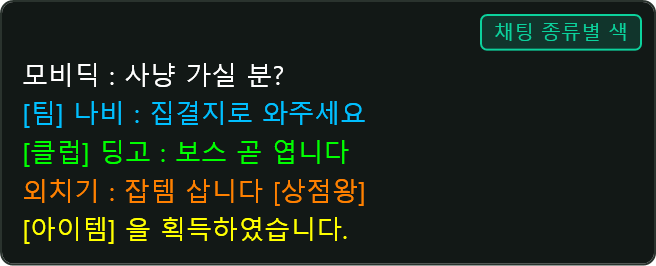
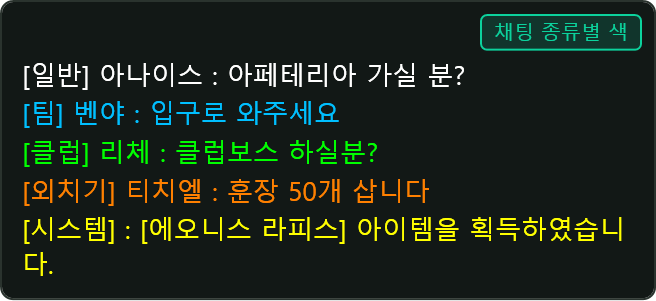
docs: 기본 채팅 필터 예시를 실제 게임 캐릭터·상황 문구로 교체

diff --git a/Services/Diagnostics/HelpShotRenderer.cs b/Services/Diagnostics/HelpShotRenderer.cs
@@ -1,4 +1,4 @@
-using System;
+using System;
 using System.IO;
 using System.Windows;
 using System.Windows.Controls;
@@ -44,11 +44,11 @@ namespace TWChatOverlay.Services
 
             // ── 기본 채팅 필터: 종류별 색 한눈에 ──
             Save(outDir, "chat_filter.png", Panel("채팅 종류별 색",
-                Line(NormalCol, ("모비딕 : 사냥 가실 분?", NormalCol)),
-                Line(TeamCol, ("[팀] 나비 : 집결지로 와주세요", TeamCol)),
-                Line(ClubCol, ("[클럽] 딩고 : 보스 곧 엽니다", ClubCol)),
-                Line(ShoutCol, ("외치기 : 잡템 삽니다 [상점왕]", ShoutCol)),
-                Line(SystemCol, ("[아이템] 을 획득하였습니다.", SystemCol))));
+                Line(NormalCol, ("[일반] 아나이스 : 아페테리아 가실 분?", NormalCol)),
+                Line(TeamCol, ("[팀] 벤야 : 입구로 와주세요", TeamCol)),
+                Line(ClubCol, ("[클럽] 리체 : 클럽보스 하실분?", ClubCol)),
+                Line(ShoutCol, ("[외치기] 티치엘 : 훈장 50개 삽니다", ShoutCol)),
+                Line(SystemCol, ("[시스템] : [에오니스 라피스] 아이템을 획득하였습니다.",SystemCol))));
 
             // ── 색상 동기화·색 지정 (설정 UI 목업으로 사용법을 그림으로) ──
             Save(outDir, "chat_id_sender_sync_on.png", SyncGuideMock(syncOn: true));
